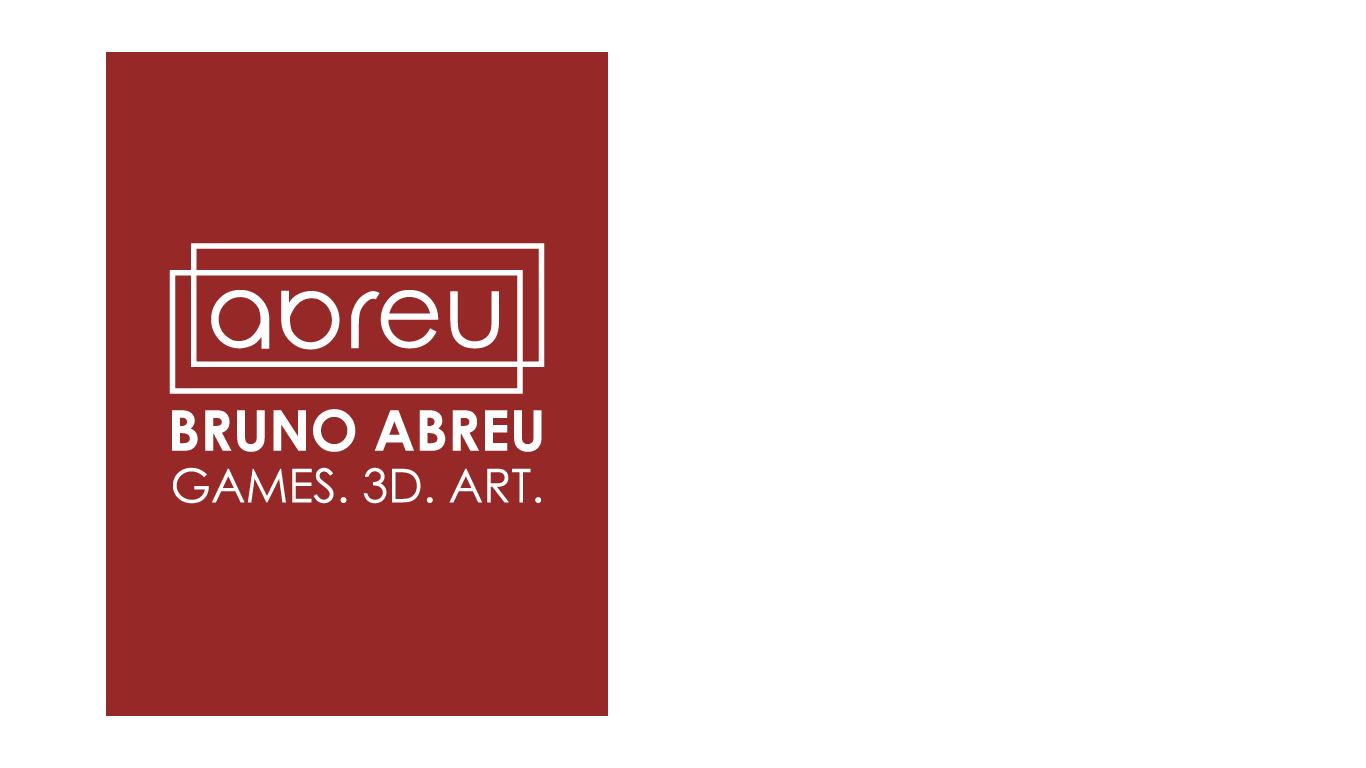
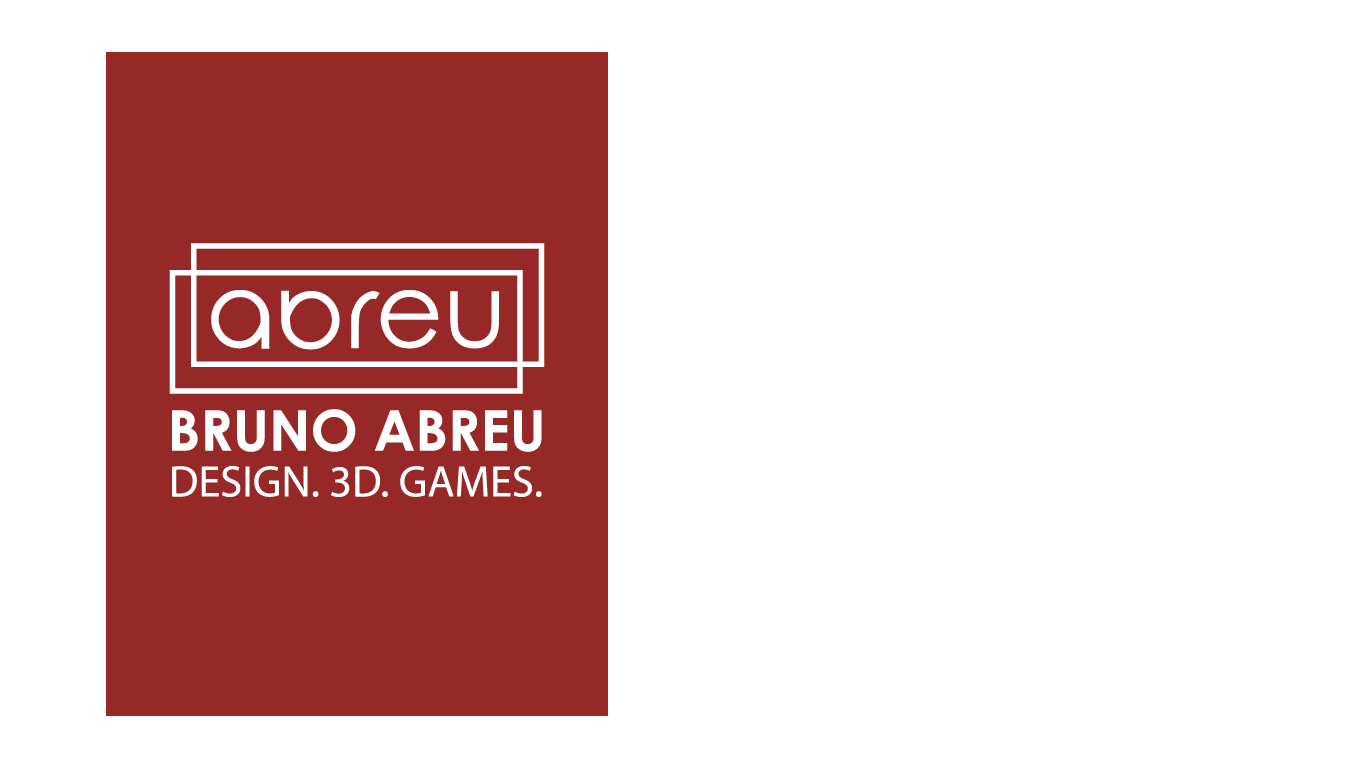
update

Changed region(s): [[0.123, 0.5938, 0.3997, 0.6562]]

diff --git a/aboutme.html b/aboutme.html
@@ -23,12 +23,12 @@
 <body>
   <div id="wrapper">
     <div class="navbar" id="navbarid">
-        <a href="index.html">HO<b>ME</b></a>
-        <a href="games.html">ABREU<b>GAMES</b></a>
-        <a href="3dfolio.html">ABREU<b>3D</b></a>
-        <a href="logofolio.html">ABREU<b>ART</b></a>
-        <a href="aboutme.html">ABOUT<b>ME</b></a>
-        <a href="contact.html">CONTACT<b>ME</b></a>
+      <a href="index.html">HO<b>ME</b></a>
+      <a href="logofolio.html">ABREU<b>DESIGN</b></a>
+      <a href="3dfolio.html">ABREU<b>3D</b></a>
+      <a href="games.html">ABREU<b>GAMES</b></a>
+      <a href="aboutme.html">ABOUT<b>ME</b></a>
+      <a href="contact.html">CONTACT<b>ME</b></a>
     </div>
     <div class="myinfo">
       <div class="myinfo-info">
@@ -158,9 +158,9 @@
         </div>
         <div class="navbar" id="navbarid">
           <a href="index.html">HO<b>ME</b></a>
-          <a href="games.html">ABREU<b>GAMES</b></a>
+          <a href="logofolio.html">ABREU<b>DESIGN</b></a>
           <a href="3dfolio.html">ABREU<b>3D</b></a>
-          <a href="logofolio.html">ABREU<b>ART</b></a>
+          <a href="games.html">ABREU<b>GAMES</b></a>
           <a href="contact.html">CONTACT<b>ME</b></a>
         </div>
         <div class="socials">

diff --git a/3dfolio.html b/3dfolio.html
@@ -24,9 +24,9 @@
   <div id="wrapper">
     <div class="navbar" id="navbarid">
       <a href="index.html">HO<b>ME</b></a>
-      <a href="games.html">ABREU<b>GAMES</b></a>
+      <a href="logofolio.html">ABREU<b>DESIGN</b></a>
       <a href="3dfolio.html">ABREU<b>3D</b></a>
-      <a href="logofolio.html">ABREU<b>ART</b></a>
+      <a href="games.html">ABREU<b>GAMES</b></a>
       <a href="aboutme.html">ABOUT<b>ME</b></a>
       <a href="contact.html">CONTACT<b>ME</b></a>
     </div>
@@ -258,8 +258,8 @@
         </div>
         <div class="navbar" id="navbarid">
           <a href="index.html">HO<b>ME</b></a>
+          <a href="logofolio.html">ABREU<b>DESIGN</b></a>
           <a href="games.html">ABREU<b>GAMES</b></a>
-          <a href="logofolio.html">ABREU<b>ART</b></a>
           <a href="aboutme.html">ABOUT<b>ME</b></a>
           <a href="contact.html">CONTACT<b>ME</b></a>
         </div>

diff --git a/games.html b/games.html
@@ -24,9 +24,9 @@
   <div id="wrapper">
     <div class="navbar" id="navbarid">
       <a href="index.html">HO<b>ME</b></a>
-      <a href="games.html">ABREU<b>GAMES</b></a>
+      <a href="logofolio.html">ABREU<b>DESIGN</b></a>
       <a href="3dfolio.html">ABREU<b>3D</b></a>
-      <a href="logofolio.html">ABREU<b>ART</b></a>
+      <a href="games.html">ABREU<b>GAMES</b></a>
       <a href="aboutme.html">ABOUT<b>ME</b></a>
       <a href="contact.html">CONTACT<b>ME</b></a>
     </div>
@@ -96,8 +96,8 @@
         </div>
         <div class="navbar" id="navbarid">
           <a href="index.html">HO<b>ME</b></a>
+          <a href="logofolio.html">ABREU<b>DESIGN</b></a>
           <a href="3dfolio.html">ABREU<b>3D</b></a>
-          <a href="logofolio.html">ABREU<b>ART</b></a>
           <a href="aboutme.html">ABOUT<b>ME</b></a>
           <a href="contact.html">CONTACT<b>ME</b></a>
         </div>

diff --git a/logofolio.html b/logofolio.html
@@ -24,9 +24,9 @@
   <div id="wrapper">
     <div class="navbar" id="navbarid">
       <a href="index.html">HO<b>ME</b></a>
-      <a href="games.html">ABREU<b>GAMES</b></a>
+      <a href="logofolio.html">ABREU<b>DESIGN</b></a>
       <a href="3dfolio.html">ABREU<b>3D</b></a>
-      <a href="logofolio.html">ABREU<b>ART</b></a>
+      <a href="games.html">ABREU<b>GAMES</b></a>
       <a href="aboutme.html">ABOUT<b>ME</b></a>
       <a href="contact.html">CONTACT<b>ME</b></a>
     </div>
@@ -398,8 +398,8 @@
         </div>
         <div class="navbar" id="navbarid">
           <a href="index.html">HO<b>ME</b></a>
-          <a href="games.html">ABREU<b>GAMES</b></a>
           <a href="3dfolio.html">ABREU<b>3D</b></a>
+          <a href="games.html">ABREU<b>GAMES</b></a>
           <a href="aboutme.html">ABOUT<b>ME</b></a>
           <a href="contact.html">CONTACT<b>ME</b></a>
         </div>

diff --git a/index.html b/index.html
@@ -31,9 +31,9 @@
         </div>
     <div class="navbar" id="navbarid">
         <a href="index.html">HO<b>ME</b></a>
-        <a href="games.html">ABREU<b>GAMES</b></a>
+        <a href="logofolio.html">ABREU<b>DESIGN</b></a>
         <a href="3dfolio.html">ABREU<b>3D</b></a>
-        <a href="logofolio.html">ABREU<b>ART</b></a>
+        <a href="games.html">ABREU<b>GAMES</b></a>
         <a href="aboutme.html">ABOUT<b>ME</b></a>
         <a href="contact.html">CONTACT<b>ME</b></a>
     </div>
